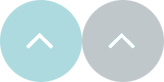
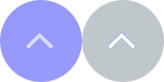
change colors

diff --git a/css/style.css b/css/style.css
@@ -146,7 +146,7 @@ ul {
     text-align: center;
     height: 49px;
     border-radius: 500px;
-    background-color: #3da9b6;
+    background-color: #1A237E;
 }
 
 .list li {
@@ -183,7 +183,7 @@ ul {
 }
 
 .list1 li a:hover:after {
-    background-color: #3da9b6;
+    background-color: #1A237E;
     width: 0;
 }
 
@@ -229,7 +229,7 @@ a {
 }
 
 a:hover {
-    color: #3da9b6;
+    color: #1A237E;
 }
 
 .btn  {
@@ -237,7 +237,7 @@ a:hover {
     color: #fff;
     display: inline-block;
     padding: 22px 62px 24px;
-    background-color: #3da9b6;
+    background-color: #1A237E;
     font: bold 30px/40px 'Dosis', sans-serif;
 }
 
@@ -407,7 +407,7 @@ img.logo {
     color: #fff;
     text-align: center;
     display: block;
-    background-color: #79c4ca;
+    background-color: #1A237E;
     font: 36px/43px 'Dosis', sans-serif;
     margin-bottom: 25px;
 }
@@ -448,7 +448,7 @@ img.logo {
     width: 127px;
     height: 127px;
     float: left;
-    background-color: #3da9b6;
+    background-color: #1A237E;
     border-radius: 500px;
     margin-right: 25px;
 }
@@ -476,7 +476,7 @@ img.logo {
 /**Map**/
 
 .color1 {
-    color: #3da9b6;
+    color: #1A237E;
 }
 
 .color1 a:hover, a.color1:hover {
@@ -583,7 +583,7 @@ footer {
     width: 63px;
     height: 62px;
     text-align: center;
-    background-color: #79c4ca;
+    background-color: #1A237E;
 }
 
 .footer_socials .fa +.fa {

diff --git a/css/superfish.css b/css/superfish.css
@@ -63,7 +63,7 @@ nav{ position:relative;padding: 0px 0 0 0;}
 
 
 .sf-menu>li.sfHover>a, .sf-menu>li.current>a, .sf-menu>li>a:hover {
-	color: #79c4ca;
+	color: #1A237E;
 }
 
 
